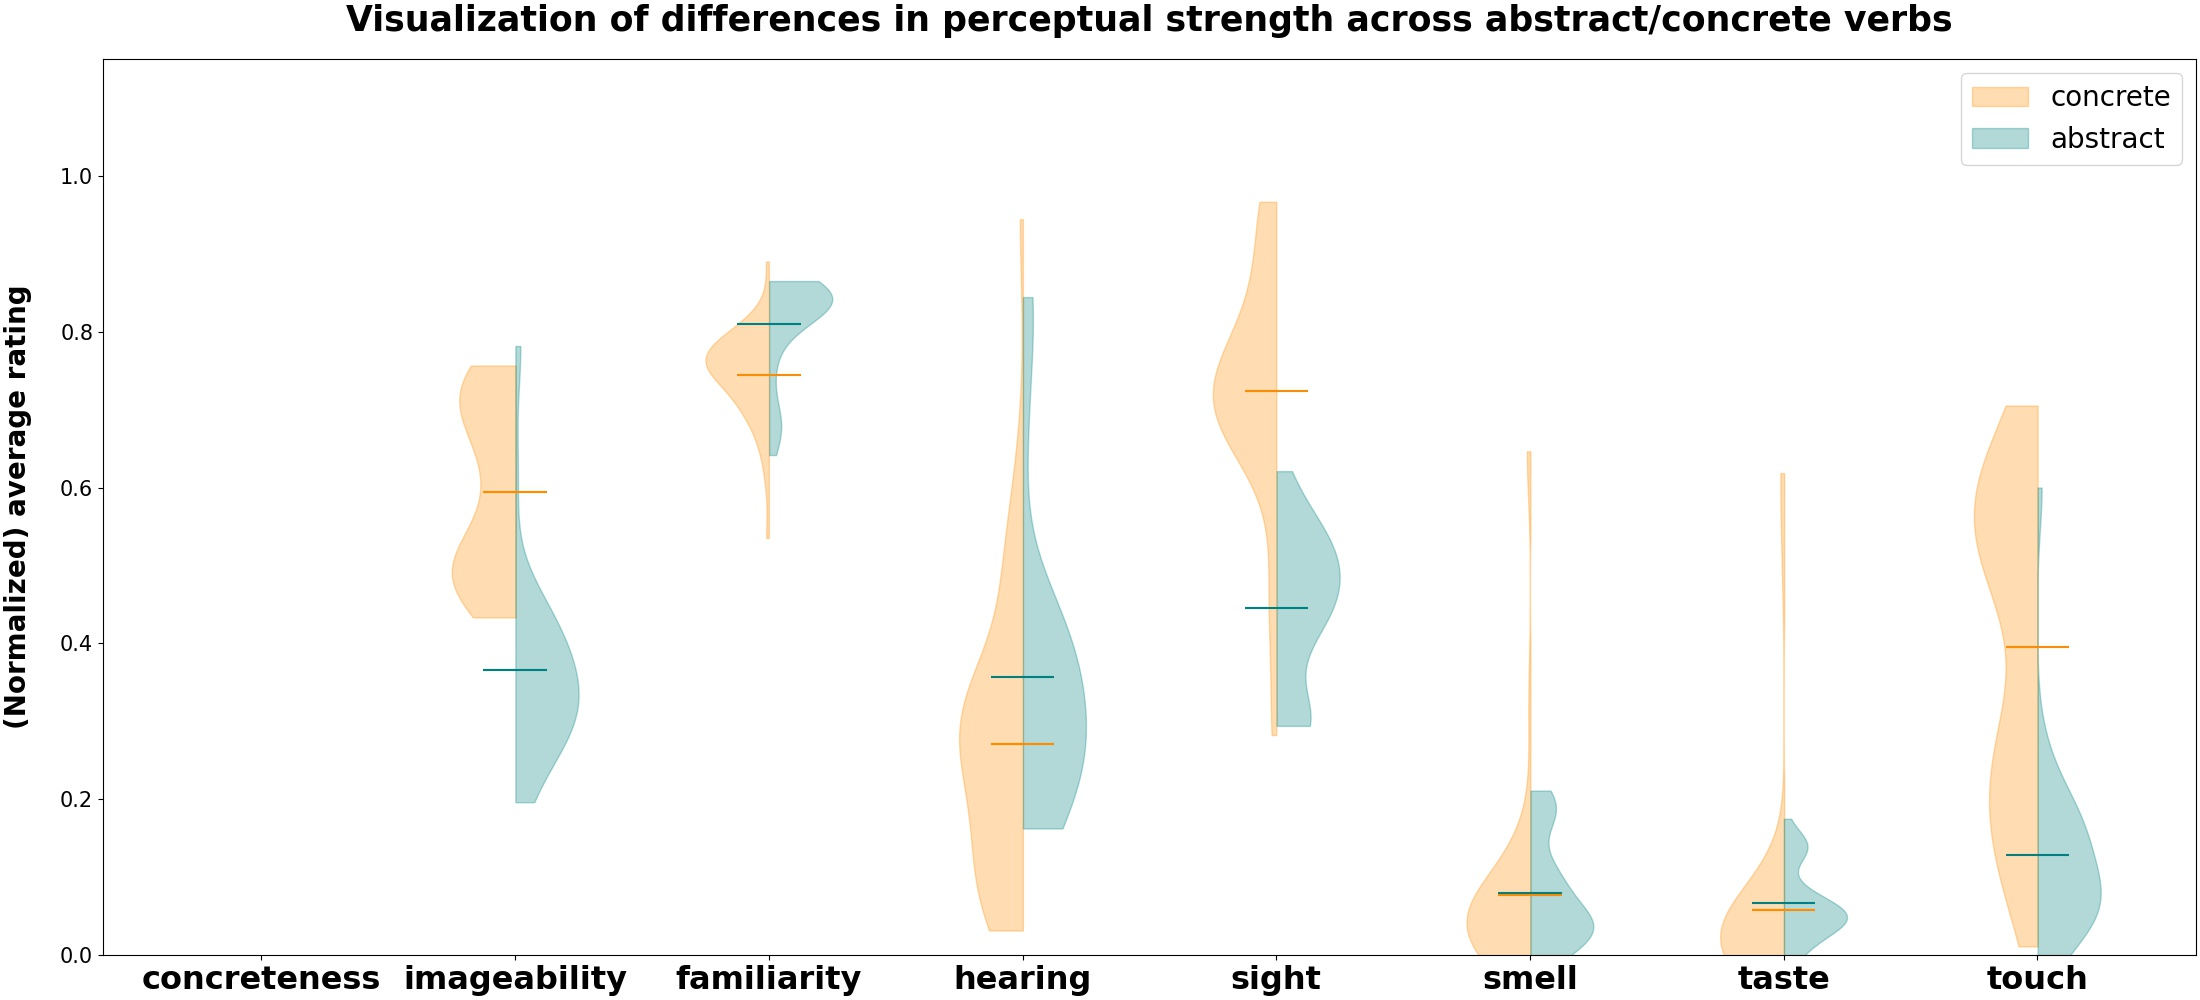
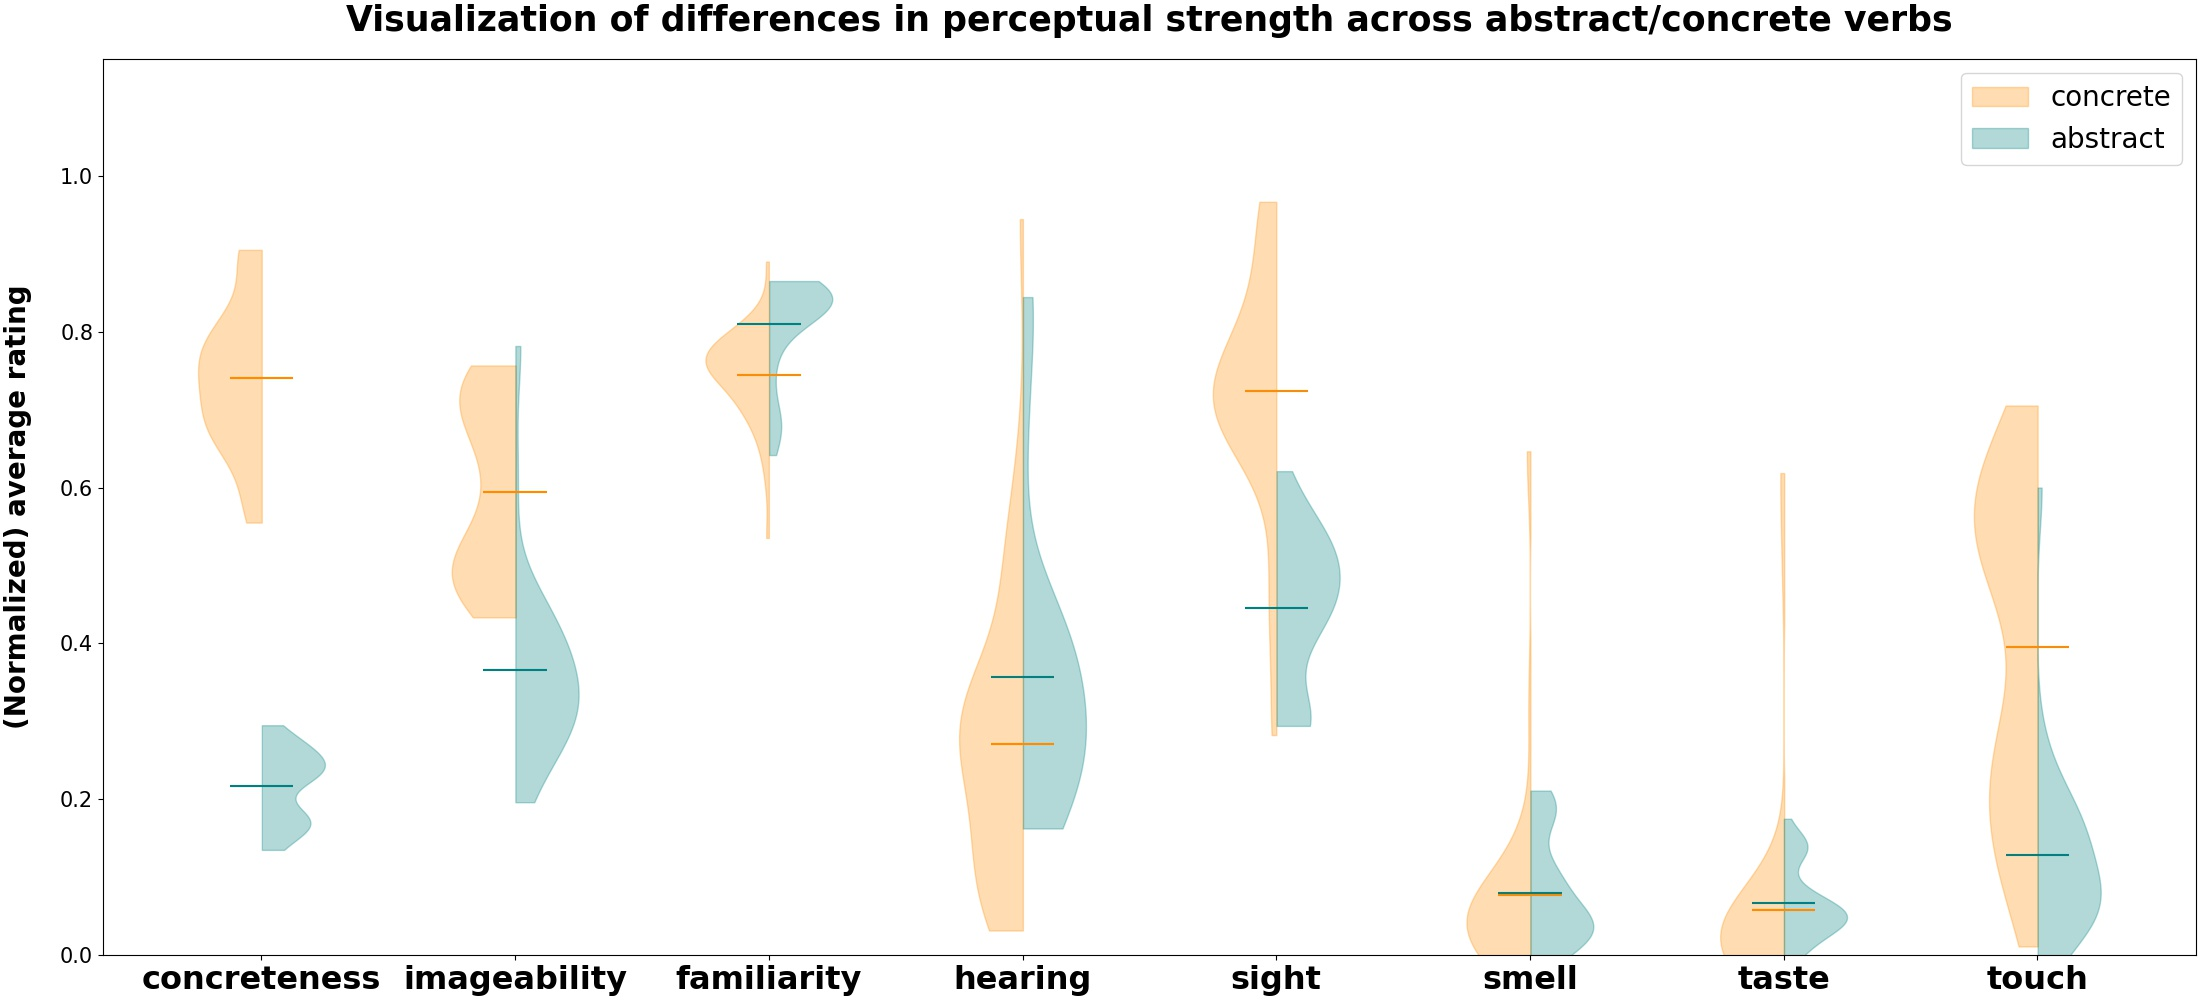
added plots

Changed region(s): [[0.0927, 0.248, 0.1236, 0.527], [0.0927, 0.713, 0.1545, 0.868]]

diff --git a/04_validate_list_phrases.py b/04_validate_list_phrases.py
@@ -108,14 +108,11 @@ for dataset_name, dataset in datasets:
     print('abstract: {}'.format(numpy.average(abstracts)))
     print(stat_diff)
 
-    vmin= 1.
-    if dataset_name == 'concreteness':
-        vmax= 5.
-    else:
-        vmax= 9.
+    vmin= 0.
+    vmax= 1.15
     final_plot[dataset_name] = {
-                               'concrete' : [(v - vmin) / (vmax - vmin) for v in concretes],
-                               'abstract' : [(v - vmin) / (vmax - vmin) for v in abstracts],
+                               'concrete' : concretes,
+                               'abstract' : abstracts,
                                } 
 
 ### now plotting
@@ -257,7 +254,6 @@ fig, ax = pyplot.subplots(figsize=(22, 10), constrained_layout=True)
 corr_stimuli = {k : [' '.join([val[1], val[0]]) for val in v] for k, v in stimuli.items()}
 
 conc = [(sense, [word_sensorimotor[sense][phr.split()[0]] for phr in sense_averages.keys() if phr in corr_stimuli['concrete'] and phr.split()[0] in word_sensorimotor[sense].keys()]) for sense, sense_averages in human_data.items()]
-import pdb; pdb.set_trace()
 abst = [(sense, [word_sensorimotor[sense][phr.split()[0]] for phr in sense_averages.keys() if phr in corr_stimuli['abstract'] and phr.split()[0] in word_sensorimotor[sense].keys()]) for sense, sense_averages in human_data.items()]
 assert [v[0] for v in conc] == [v[0] for v in abst]
 xs = [v[0] for v in conc]

diff --git a/utils.py b/utils.py
@@ -45,9 +45,9 @@ def read_brysbaert_norms():
                 counter += 1
                 continue
             line = l.strip().split(',')
-            val[line[1]] = float(line[2])
-            aro[line[1]] = float(line[5])
-            dom[line[1]] = float(line[8])
+            val[line[1]] = (float(line[2]) - 1) / (9 - 1)
+            aro[line[1]] = (float(line[5]) - 1) / (9 -1)
+            dom[line[1]] = (float(line[8]) - 1) / (9 - 1)
 
     conc = dict()
     counter = 0
@@ -57,7 +57,8 @@ def read_brysbaert_norms():
                 counter += 1
                 continue
             line = l.strip().split('\t')
-            conc[line[0]] = float(line[2])
+            curr_val = (float(line[2]) - 1) / (5 - 1)
+            conc[line[0]] = curr_val
 
     imag = dict()
     fam = dict()
